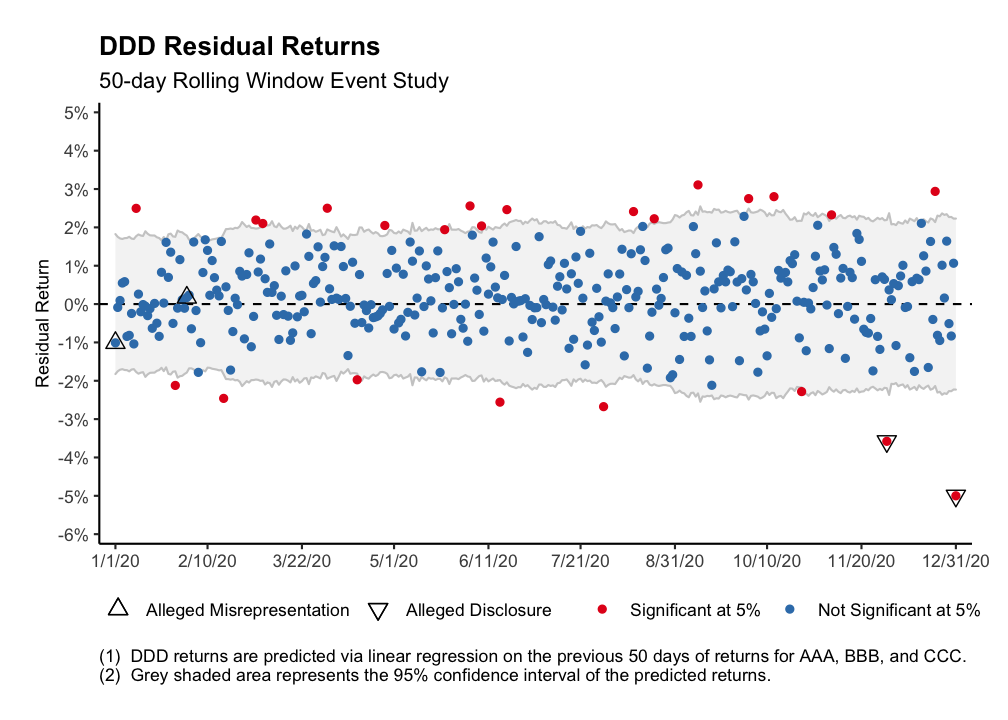
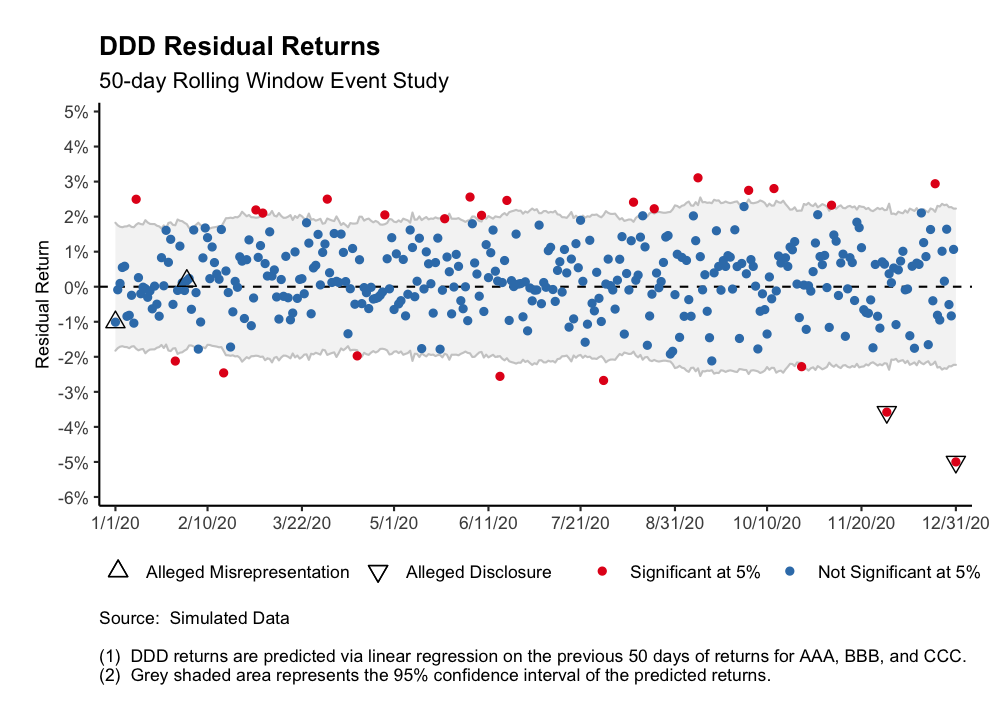
updated visual elements of make_coef_plot

Changed region(s): [[0.0308, 0.2444, 0.9534, 0.7028], [0.0615, 0.6111, 0.9841, 0.8861], [0.0615, 0.1528, 0.0923, 0.2139]]

diff --git a/README.md b/README.md
@@ -71,7 +71,8 @@ labels <- c(
 
 (resid_plot <- make_resid_plot(
   event_study, 
-  labels = labels
+  labels = labels, 
+  source = 'Simulated Data'
 ))
 ```
 
@@ -80,6 +81,7 @@ labels <- c(
 ``` r
 (coef_plot <- make_coef_plot(
   event_study, 
+  source = 'Simulated Data',
   labels = labels
 ))
 ```
